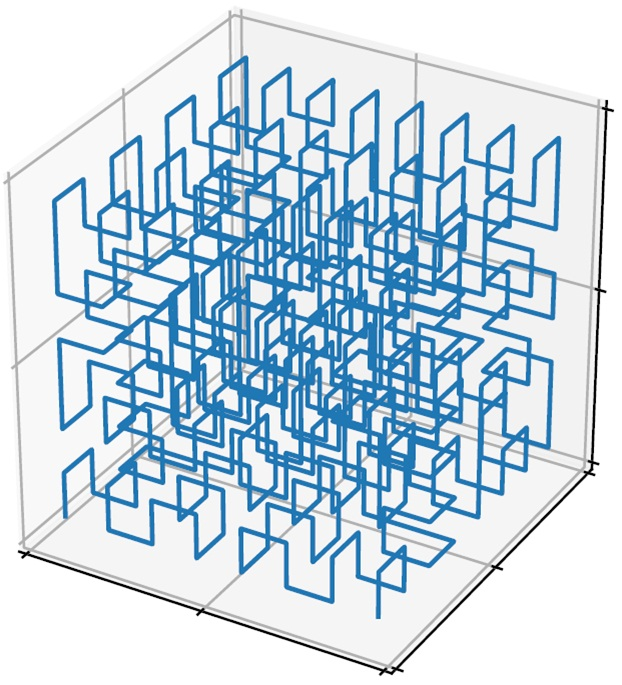
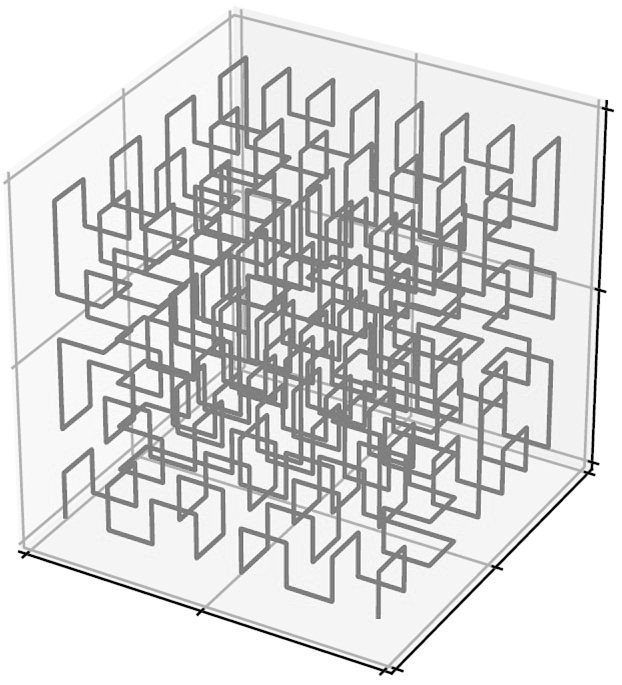
all figures in black-and-white

Changed region(s): [[0.0611, 0.0613, 0.9164, 0.9197]]

diff --git a/2021/Lobachevskii_BarkalovLebedev/Barkalov.tex b/2021/Lobachevskii_BarkalovLebedev/Barkalov.tex
@@ -335,7 +335,7 @@ as
 \min \left\{f_{m+1}(x): x \in [0,S], \; f_i(x) \leq 0, \; 1 \leq i \leq m\right\}.
 \end{equation}
 
-To illustrate this, Fig. \ref{fig:1} shows graphs of functions corresponding to a problem with one continuous and one binary parameter.
+To illustrate this, Fig. \ref{fig:1} shows graphs of functions corresponding to a problem with one continuous and one integer parameter.
 \begin{figure}[ht]
     \centering
     \includegraphics[width=0.9\textwidth]{fig1.jpg}
